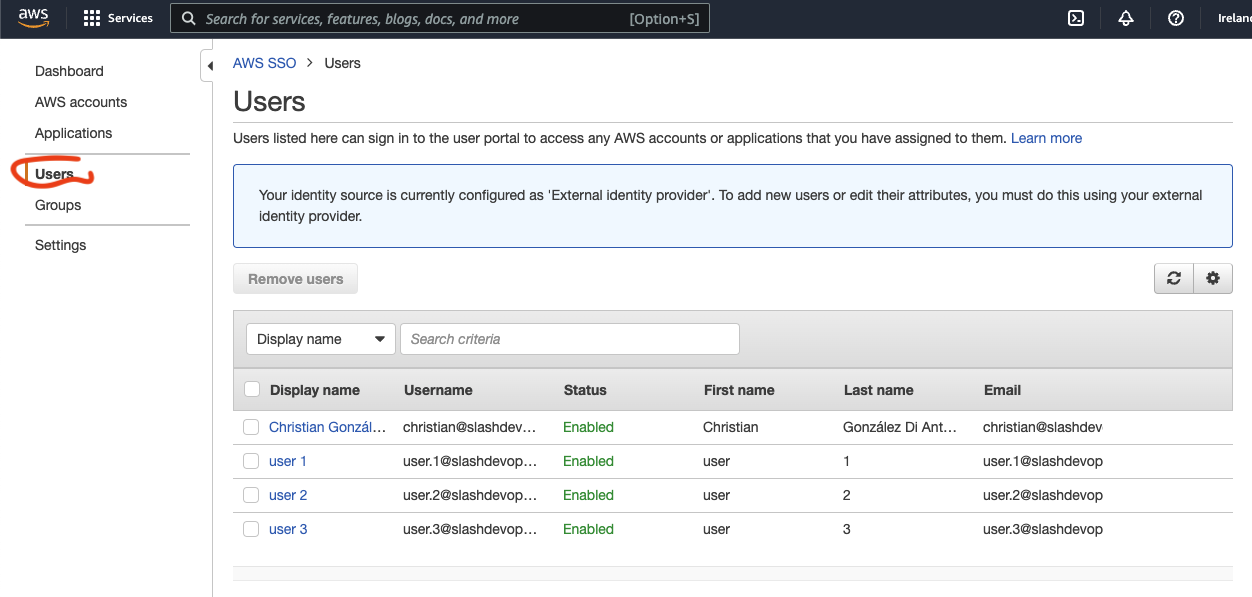
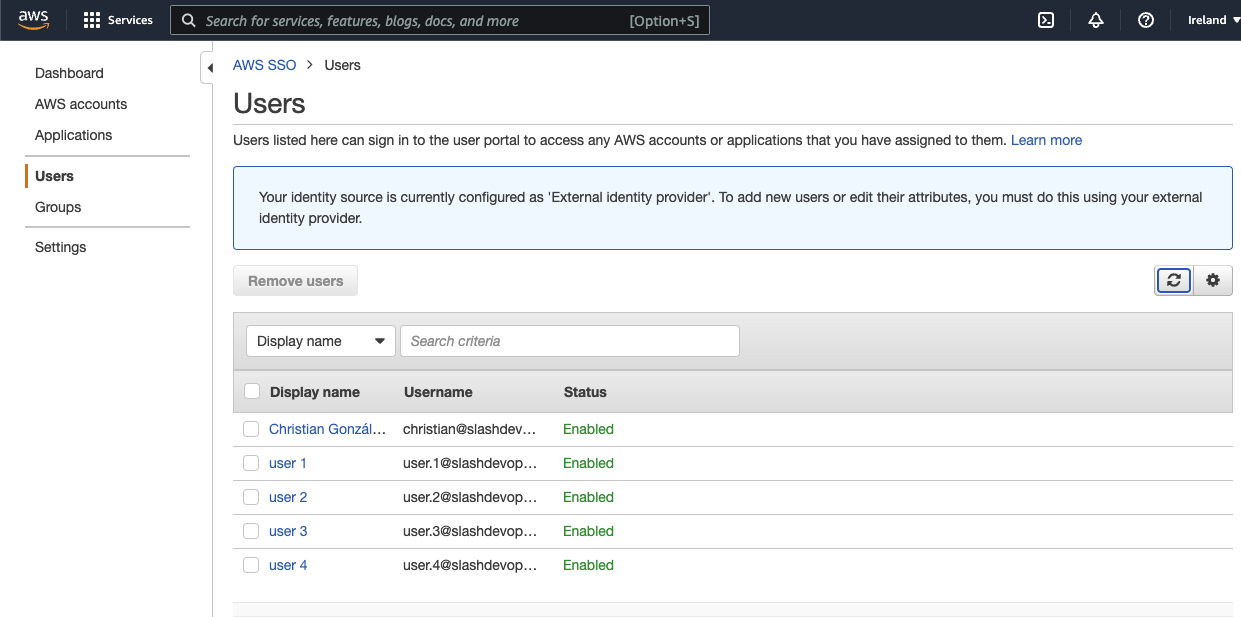
docs: update demo images and create a page to show these

diff --git a/docs/Demo.md b/docs/Demo.md
@@ -1,0 +1,47 @@
+# Demo images
+
+## First time sync
+
+![First time sync](demo/sync-1.png)
+
+## Sync after first time
+
+![First time sync](demo/sync-2.png)
+
+## State bucket and file
+
+### AWS Bucket
+
+![AWS Bucket file](demo/aws-s3-state-file.png)
+
+### State file
+
+![AWS Bucket file](demo/state-file.png)
+
+## Google Workspace data
+
+### Users
+
+![Google Workspace users](demo/gws-users.png)
+
+### Groups
+
+![Google Workspace groups](demo/gws-groups.png)
+
+### Group Developers
+
+![Google Workspace groups](demo/gws-groups-developers.png)
+
+## AWS SSO data
+
+### Users
+
+![AWS SSO users](demo/aws-users.png)
+
+### Groups
+
+![AWS SSO groups](demo/aws-groups.png)
+
+### Group Developers
+
+![AWS SSO groups](demo/aws-groups-developers.png)

diff --git a/README.md b/README.md
@@ -19,3 +19,6 @@ This project is [100% Golang](https://go.dev/) and has two main components:
 
 2. [idpscimcli](docs/idpscimcli.md) is is a command-line tool to check and validate some functionalities implemented in `idpscim`. More details [here](docs/idpscimcli.md).
 
+## Examples
+
+look here [docs/Demo.md](docs/Demo.md)
